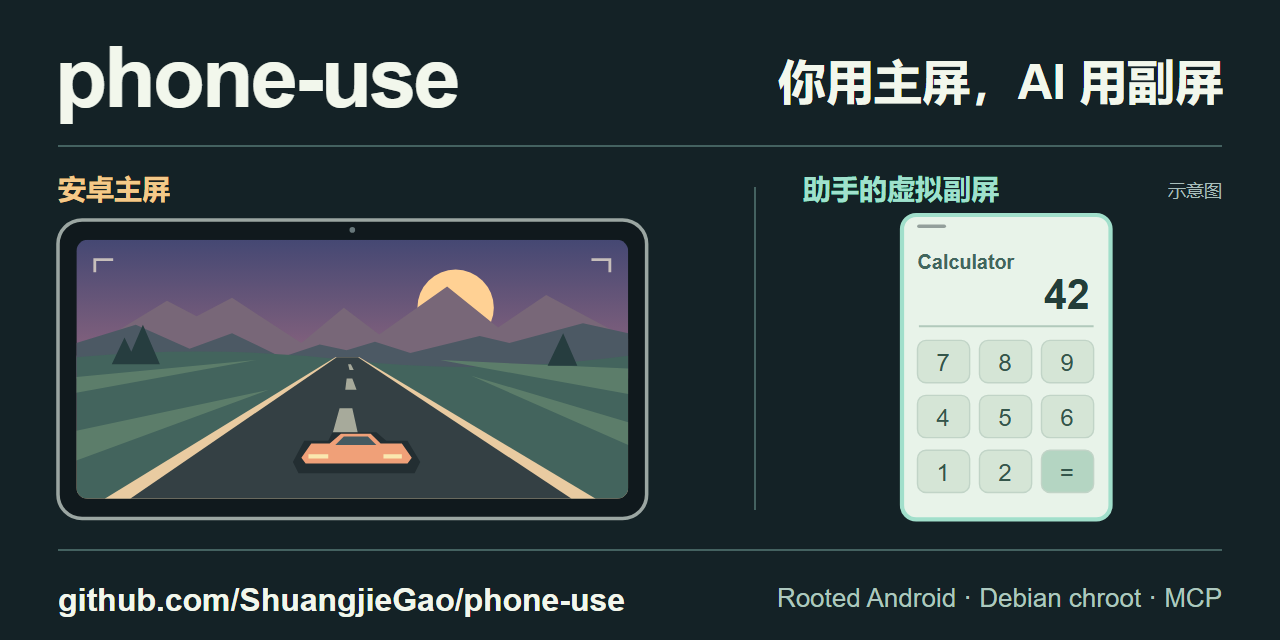
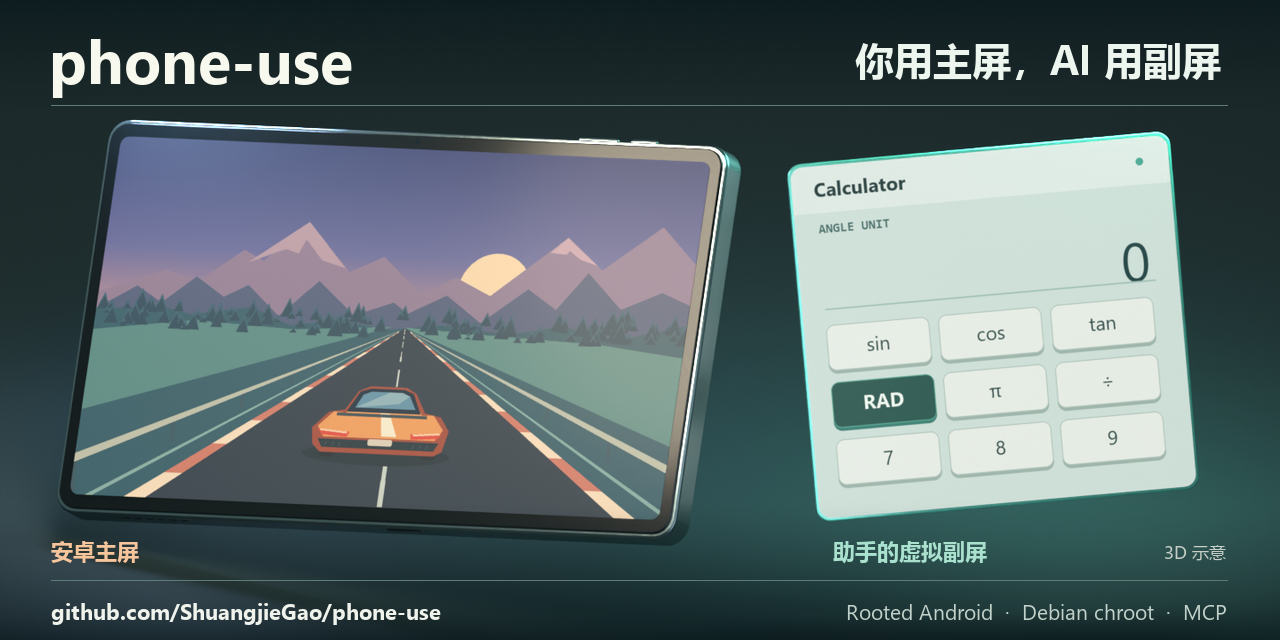
Animate the two-display demo and render a 3D project card

diff --git a/README.en.md b/README.en.md
@@ -1,10 +1,15 @@
 # phone-use
 
-[简体中文](README.md) · [Download v0.1.1](https://github.com/ShuangjieGao/phone-use/releases/tag/v0.1.1) · [AGPL-3.0-only](LICENSE)
+[简体中文](README.md) · [Quick start](#quick-start) · [Try the calculator](#try-it-with-a-calculator) · [Download v0.1.1](https://github.com/ShuangjieGao/phone-use/releases/tag/v0.1.1)
 
 Give an AI assistant its own Android display. You can keep a game stream on your tablet while the assistant opens a calculator on a virtual display on the **same device**. A desktop viewer can show you exactly what the assistant sees.
 
-![One Android device with a main display for the person and a separate virtual display for the assistant.](docs/images/two-displays.svg)
+<picture>
+  <source media="(prefers-reduced-motion: reduce)" srcset="docs/images/phone-use-demo-still.png">
+  <img src="docs/images/phone-use-demo.gif" alt="Illustrated workflow: a racing game keeps running on the main display while the assistant switches the calculator from DEG to RAD on its virtual display, reads it back and restores DEG.">
+</picture>
+
+*Eight-second illustrated walkthrough. Watch the unit button on the right: after tapping, the assistant reads the screen again to confirm `RAD`.* [Open the GIF](docs/images/phone-use-demo.gif) · [Static walkthrough](docs/images/observe-act.svg)
 
 We tested phone-use on **rooted Android 13 with an ARM64 Debian chroot**. The assistant connects over Model Context Protocol (MCP) using standard input and output. It can read text with OCR, request a screenshot when it needs to see an icon, and tap a target from the latest observation.
 
@@ -109,4 +114,4 @@ You can close the viewer while the assistant keeps using its display. To release
 
 To run the source tests, use `python -m unittest discover -s tests -v` from the repository root.
 
-Trying a different device? [Share a compatibility report](https://github.com/ShuangjieGao/phone-use/issues) with the device model, Android version and app you tested. If phone-use helped you, you can star the repo or share the [project card](docs/images/phone-use-card.png).
+Trying a different device? [Share a compatibility report](https://github.com/ShuangjieGao/phone-use/issues) with the device model, Android version and app you tested. If phone-use helped you, you can star the repo or share the [3D project card](docs/images/phone-use-card.png).

diff --git a/README.md b/README.md
@@ -4,9 +4,14 @@
 
 **给 AI 一块独立的安卓副屏，你继续使用主屏。** 我们在同一台平板上用 Moonlight 串流，同时让助手在虚拟屏上打开另一个应用。想看看助手点了什么？在电脑上打开这块副屏的只读预览即可。
 
-![双屏示意：一台平板的主屏显示游戏串流，AI 在独立虚拟屏使用计算器，电脑可以只读观看副屏。](docs/images/two-displays.svg)
+项目最初为小肥鱼开发，也能接入其他支持 MCP stdio 的助手。**实测环境**为已 root 的 Android 13 平板和 ARM64 Debian chroot。
 
-项目最初为小肥鱼开发，可以接入支持 **MCP stdio** 的其他助手。已在 **Android 13 + ARM64 Debian chroot** 上实测，需要已 root 的设备。
+<picture>
+  <source media="(prefers-reduced-motion: reduce)" srcset="docs/images/phone-use-demo-still.png">
+  <img src="docs/images/phone-use-demo.gif" alt="双屏工作流程示意：主屏的赛车串流继续，助手在同一设备的虚拟副屏把计算器从 DEG 切到 RAD，读回新单位，再恢复 DEG。">
+</picture>
+
+*8 秒流程示意。看右侧单位键，助手点按后会再观察一次，确认画面上出现了 `RAD`。* [单独查看 GIF](docs/images/phone-use-demo.gif) · [静态操作步骤](docs/images/observe-act.svg)
 
 | 使用时你关心什么 | phone-use 怎样处理 |
 | --- | --- |
@@ -130,4 +135,4 @@ python -m unittest discover -s tests -v
 
 本项目按 [GNU AGPL-3.0-only](LICENSE) 开源。scrcpy、FFmpeg、Tesseract 和 Pillow 独立安装，适用各自的上游许可证。
 
-如果你也在手机或平板上跑通了，欢迎在 [Issues](https://github.com/ShuangjieGao/phone-use/issues) 分享设备型号、Android 版本和哪个应用能在副屏上运行。这些记录可以帮助下一个人判断自己的设备是否合适。觉得这个工具有用，可以点 **Star** 收藏，或用[这张介绍图](docs/images/phone-use-card.png)分享项目。
+如果你也在手机或平板上跑通了，欢迎在 [Issues](https://github.com/ShuangjieGao/phone-use/issues) 分享设备型号、Android 版本和哪个应用能在副屏上运行。这些记录可以帮助下一个人判断自己的设备是否合适。觉得这个工具有用，可以点 **Star** 收藏，或用[3D 项目介绍图](docs/images/phone-use-card.png)分享给朋友。
